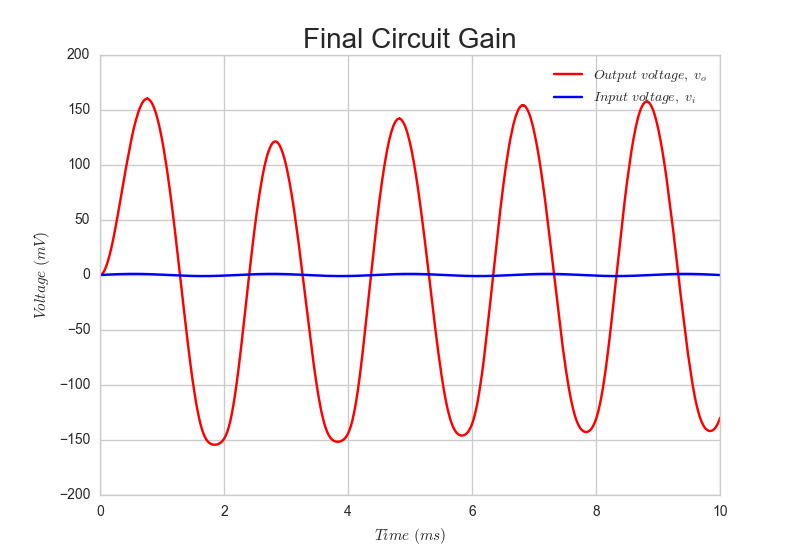
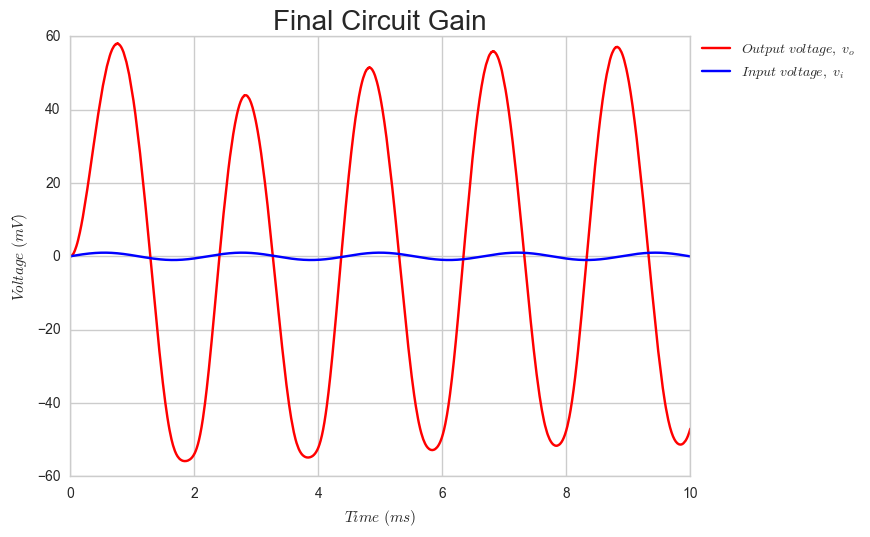
update gitignore and final gain

diff --git a/project/scripts/plotter.py b/project/scripts/plotter.py
@@ -21,7 +21,7 @@ y = sin(2 * pi * f * x / Fs)
 
 def final_gain():
 
-    plt.plot(1000 * df["t"], 2763 * df["v"], 'r-',
+    plt.plot(1000 * df["t"], 1000 * df["v"], 'r-',
              label=r"$Output\ voltage,\ v_{o}$")
     plt.plot(1000 * df["t"], 1000 * 0.001 * y, 'b-',
              label=r"$Input\ voltage,\ v_{i}$")
@@ -31,22 +31,7 @@ def final_gain():
     plt.xlabel(r'$Time\ (ms)$')
 
 
-def audio_max():
-
-    # plt.plot(1000 * df["t"], 5000 * df["v"], 'r-',
-    #          label=r"$Output\ voltage,\ v_{o}$")
-    plt.plot(1000 * df["t"], 0.001 * y, 'b-',
-             label=r"$Input\ voltage,\ v_{i}$")
-    plt.plot(1000 * df["t"], 2.4 * y, 'r-',
-             label=r"$Input\ voltage,\ v_{i}$")
-
-    plt.title("Final Circuit Gain", fontsize=20)
-    plt.ylabel(r'$Voltage\ (mV)$')
-    plt.xlabel(r'$Time\ (ms)$')
-
-
-# final_gain()
-audio_max()
+final_gain()
 lgd = ax.legend(bbox_to_anchor=(1.01, 1), loc=2, borderaxespad=0.)
-fig.savefig(path.join(fig_path, 'audio_max.png'),
+fig.savefig(path.join(fig_path, 'final_gain.png'),
             bbox_extra_artists=(lgd,), bbox_inches='tight')
